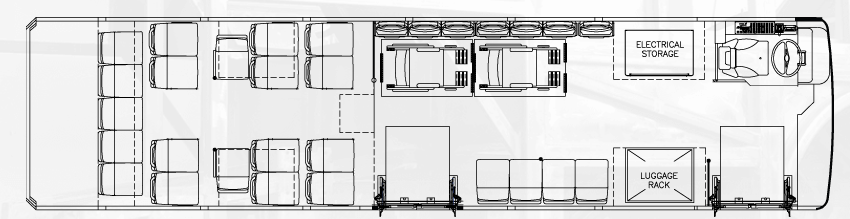
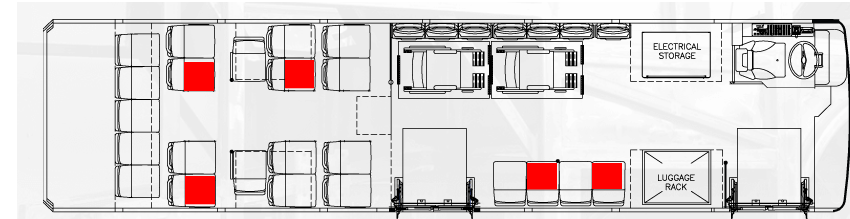
Website content/Style

Changed region(s): [[0.0306, 0.0548, 1.0, 1.0]]

diff --git a/pro_team/Src/templates/product.html b/pro_team/Src/templates/product.html
@@ -1,0 +1,95 @@
+<html>
+	<head>
+		<title>Vision</title>
+		<meta charset="utf-8" />
+		<meta name="viewport" content="width=device-width, initial-scale=1" />
+		<link rel="stylesheet" href="static/main.css" />
+	</head>
+	<body class="subpage">
+
+		<!-- Header -->
+			<header id="header">
+				<div class="inner">
+					<a href="index.html" class="logo"><img src=" ./static/images/logo.png"></a>
+					<nav id="nav">
+						<a href="home">Home</a>
+						<a href="track_my_bus">Track My Bus</a>
+						<a href="product">Product</a>
+                        <a href="vision">Vision</a>
+						<a href="elements">About</a>
+					</nav>
+					<a href="#navPanel" class="navPanelToggle"><span class="fa fa-bars"></span></a>
+				</div>
+			</header>
+
+		<!-- Main -->
+			<section id="main" class="wrapper">
+				<div class="inner">
+					<header class="align-center">
+						<h2>The SoftStat </h2>
+						<p>Providing Transparency in a Post Covid-19 World</p>
+					</header>
+					<body>
+					<p style=" font-size: 22pt; line-height: 2.0;">The SoftStat product is a series of sensors deployed onto a given bus that then allows anonymous tracking of social distancing that is taking place on a bus in real time. The data gathered by the seat sensors are then sent to a web application that updates the bus’s seating chart in real time. Using data visualization we are then able to show any rider or potential rider what the current levels of occupancy on the bus are. This allows users to make decisions on whether or not they are comfortable with the current social distancing practices that are taking place on any bus in real time. This technology promises to bring a level of transparency and information to the public that will help alleviate the worries and concerns of essential workers as cities work to reopen the economies.</p>
+					<p style="text-align: center"><strong>How it Works</strong></p>
+					<div style="text-align: center; text-height: 1.0">
+						<br>
+						<img src="./static/images/strips.jpg" height = "50%" width = "50%">
+						<br>
+						<br>
+						<p style=" font-size: 22pt; line-height: 2.0; text-align: left; margin-left: 3.0cm; margin-right:3cm;">Clayton, one of our engineers purchased a sheet of velostat and copper foil to construct a pressure sensor strip to use as a seat sensor with velostat, copper foil and an arduino uno microcontroller. The final design is 3 1”x11” strips of velostat stacked on top of each other with 2 0.5”x11” copper foil strips on either side of the strips, with wires soldered on either side.
+					</p>
+						<div style="text-align: center; text-height: 1.0">
+						<br>
+						<img src="./static/images/Seat2.jpg" height = "50%" width = "50%">
+						<br>
+							<br>
+							<p style=" font-size: 22pt; line-height: 2.0; text-align: left; margin-left: 3.0cm; margin-right:3cm;">
+								An example of the Velostat implemented into a seat. Velostat is the black strip shown in the photo.
+							</p>
+					</div>
+					</div>
+					<div style="text-align: center; text-height: 1.0">
+						<br>
+						<br>
+						<br>
+						<img src="./static/images/Seat1.jpg" height = "600" width = "600">
+						<br>
+						<br>
+						<p style=" font-size: 22pt; line-height: 2.0; text-align: left; margin-left: 3.0cm; margin-right:3cm;">
+						Before the wire goes in the arduino, he put a diode to make sure the current was traveling in a singular direction into the arduino for consistent readings. The arduino reads the voltages going through the sensor with a voltage threshold to send a message if somebody is using said seat. Once the person sits in the seat,the threshold is broken and the arduino sends a signal to the website application and then reads that signal knowing which seat is now taken, coloring in that seat. Once the seat is empty again, a closing signal is sent to the website to take the color out of the seat to show that the seat is free. These signals can be a simple number going 1 through however many seats when the threshold is broken, and sending a zero when the seat is being unused.
+						</p>
+					</div>
+					<div style="text-align: center; text-height: 1.0">
+						<br>
+						<img src="./static/images/Seat3.jpg" height = "50%" width = "50%">
+						<br>
+						<br>
+						<p style=" font-size: 22pt; line-height: 2.0; text-align: left; margin-left: 3.0cm; margin-right:3cm;">
+						Above is an Ardunio Uno that measure the threshold in order to determine if someone is sitting or not. One Ardunio Uno can measure multiple seats at once.
+						</p>
+					</div>
+
+					<hr class="major" />
+
+					<!-- Content -->
+
+											<ul class="icons">
+												<li><a href="#" class="icon fa-twitter"><span class="label">Twitter</span></a></li>
+												<li><a href="#" class="icon fa-facebook"><span class="label">Facebook</span></a></li>
+												<li><a href="#" class="icon fa-instagram"><span class="label">Instagram</span></a></li>
+												<li><a href="#" class="icon fa-github"><span class="label">Github</span></a></li>
+												<li><a href="#" class="icon fa-dribbble"><span class="label">Dribbble</span></a></li>
+												<li><a href="#" class="icon fa-tumblr"><span class="label">Tumblr</span></a></li>
+											</ul>
+
+										</div>
+
+		<!-- Scripts -->
+			<script src="./static/jquery.min.js"></script>
+			<script src="./static/skel.min.js"></script>
+			<script src="./static/util.js"></script>
+			<script src="./static/main.js"></script>
+
+	</body>
+</html>

diff --git a/pro_team/Src/templates/elements.html b/pro_team/Src/templates/elements.html
@@ -20,8 +20,9 @@
 					<nav id="nav">
 						<a href="home">Home</a>
 						<a href="track_my_bus">Track My Bus</a>
-						<a href="elements">About</a>
+						<a href="product">Product</a>
 						<a href="vision">Vision</a>
+						<a href="elements">About</a>
 					</nav>
 					<a href="#navPanel" class="navPanelToggle"><span class="fa fa-bars"></span></a>
 				</div>
@@ -37,15 +38,39 @@
 					<body>
 						<div style="text-align: center;">
 
-						</body>
 						<img src="./static/images/cool_dude.jpg" height = "50%" width = "50%">
-						<p> Bio Stuff</p>
+						<p><strong> Clayton Scheurer <br>UX/Product Designer-Pro Squad, Sophomore majoring in electrical engineering at Rose-Hulman Institute of Technology
+							<br></strong>Clayton was in charge of product/UX design, designing a seat sensor keeping functionality, durability, and cost in mind to make the best prototype available as a solution. Clayton is looking to focus on either the agricultural or defense industry. He is a part of Rose’s baseball program and in his free time he enjoys hunting and coaching baseball.</p>
 						<img src="./static/images/grace.jpg" height = "50%" width = "50%">
-						<p> Bio Stuff</p>
+					<p><strong>Grace Tam <br> Project Manager, Junior Integrated Business and Engineering and Spanish
+@Valparaiso University</strong> <br>
+					Grace was responsible for scheduling all internal and external meetings. She created a Slack channel and a groupme chat and ran a weekly planning meeting where everyone agreed on a set of tasks for the week. Grace also put this document together with help from the rest of the team.
+					</p>
 						<img src="./static/images/ryan-danehy.jpg" height = "50%" width = "50%" >
-						<p> Bio Stuff</p>
-						</center>
+					<p> <strong> Ryan Danehy <br>Software Engineer,, senior in Intelligent Systems Engineering with minor in mathematics @ Indiana University</strong><br>
+					Ryan was in charge of designing, developing, and deploying the web application in which the SoftStat sensor would be integrated into. He also was responsible for the initial research in the product viability evaluation, as well as investigating the future application of such a product. Ryan’s area of specialization is bioengineering specifically computational biology, with increased interest in High Performance Computing, and Machine Learning. He is an avid skier, hiker, and biker who was born and raised in Louisville, Kentucky. He is currently scheduled to graduate with a bachelor degree in 2021 and a master’s degree in 2022.
+					</p>
+						<img src="./static/images/elliot.jpg" height = "10%" width = "30%" >
+						<p> <strong>Elliot Schendel <br>Director of Operations - Go Team, Senior majoring in Management of Information Systems at Butler University<br>
+</strong> Elliot was responsible for: facilitating the completion of Go-team materials, creating material for project development, and conducting market research. He's passionate about helping make technology more accessible to small business owners and helping them to work smarter to achieve their organizational goals. In his free time, Elliot loves to drive and ride his bike in natural parks.
+</p>
+						<img src="./static/images/cassie.jpg" height = "10%" width = "30%" >
+						<p>
+							<Strong> Cassie Utley<br> Customer Outreach Manager, Senior Class of 2021, Mechanical Engineer @ Rose-Hulman Institute of Technology</Strong><br>
+
+Cassie contributed by focusing on the importance of the customers' need to travel safely, especially due to COVID-19, and how to incorporate change with the team in the development of Take a Seat. Post-Graduation, she plans to go into the automotive industry and eventually develop her own business; however, she's still thinking about going back to school to get her Masters or go to Chiropractic school. Outside of school and academics, Varsity Athlete, Multi-Organizations Member, Tutor and Volunteer. But if you’re looking for her, you can find her in the gym.</p>
+
+						<img src="./static/images/david.png" height = "25%" width = "25%" >
+						<p><strong>David Mykut. <br>Systems Designer, System Analyst- Pro Squad, Majoring in Computer Information and Technologies with a minor in History @ Purdue</strong>
+						<br>
+							David helped to model and visualize the design of the project in the early stages, then helping between other areas and teammates as needed. He is a senior studying computer informations and technologies with a minor in history at
+Purdue University. From a small town , Walton, in Indiana after living in north Central Pennsylvania for
+seven years. Has a background in organizing teams, taking charge when needed, and managing and
+connecting with communities. Enjoys stories, story telling, reading, playing games, and brewing tea.
+						</p>
 						</div>
+
+
 					<hr class="major" />
 
 					<!-- Content -->

diff --git a/pro_team/Src/templates/vision.html b/pro_team/Src/templates/vision.html
@@ -14,8 +14,9 @@
 					<nav id="nav">
 						<a href="home">Home</a>
 						<a href="track_my_bus">Track My Bus</a>
-						<a href="elements">About</a>
+						<a href="product">Product</a>
                         <a href="vision">Vision</a>
+						<a href="elements">About</a>
 					</nav>
 					<a href="#navPanel" class="navPanelToggle"><span class="fa fa-bars"></span></a>
 				</div>
@@ -30,10 +31,13 @@
 					</header>
 					<body>
 						<div style="text-align: center;">
-							<img src="./static/images/quote.png">
+							<p style=" font-size: 22pt; line-height: 2.0; text-align: left; margin-left: 3.0cm; margin-right:3cm;"> Take a seat was founded in 2020 with the objective of providing rider a piece of mind when engaged in transportation system in indy go. We envision our initial product of take a seat being a launch point into variety of other customer relation improving software and hardware. Take a seat marketing offer is designed to improve the public health of Hoosier engaging in transportation service in Indy such as Indygo.</>
 						</div>
+						<div style="text-align: center;">
+							<p style=" font-size: 22pt; line-height: 2.0; text-align: left; margin-left: 3.0cm; margin-right:3cm;"> Cities are currently designed and run in a way that incentives individual mobility. This has resulted in systems that equate cars as equal to buses and have resulted in a variety of challenges. In the current climate of increasing populations, and climate change we believe it is becoming not only necessary but vital that cities redesign their transportation arrangements into a more intelligent, green, and efficient model. We hope that our current product will act as a stepping stool to allowing us to gain a voice, trust,and customer base so that we can face these new transportation challenges.
+</p>
 						<div>
-							<img src="./static/images/smart_trans.png" width=" 150%" height="150%">
+							<img src="./static/images/smart_trans.png" width=" 100%" height="100%">
 						</div>
 					<hr class="major" />
 

diff --git a/pro_team/Src/templates/index.html b/pro_team/Src/templates/index.html
@@ -20,8 +20,9 @@
 					<nav id="nav">
 						<a href="home">Home</a>
 						<a href="track_my_bus">Track My Bus</a>
-						<a href="elements">About</a>
+						<a href="product">Product</a>
 						<a href="vision">Vision</a>
+						<a href="elements">About</a>
 					</nav>
 					<a href="#navPanel" class="navPanelToggle"><span class="fa fa-bars"></span></a>
 				</div>
@@ -31,34 +32,15 @@
 			<section id="banner">
 				<div class="inner">
 					<header>
-						<h1>Welcome to Take A Seat</h1>
+						<h1><p style="color:#6CC091;font-size:200%;margin-bottom: 0">Take A Seat</p><p style="line-height: 1.2; color: #FFFFFF;"><br> is a solution to the post COVID-19 world which will revolutionize the relationship between
+							public transportation and the essential workers who use it daily. </p></h1>
 					</header>
-
-					<div class="flex ">
-
-						<div>
-							<span class="icon fa-car"></span>
-							<h3>Transparency</h3>
-							<p></p>
-						</div>
-
-						<div>
-							<span class="icon fa-camera"></span>
-							<h3>Comfort</h3>
-							<p></p>
-						</div>
-
-						<div>
-							<span class="icon fa-bug"></span>
-							<h3>Optimization</h3>
-							<p></p>
-						</div>
-
-					</div>
-
 					<footer>
-						<a href="#" class="button">Get Started</a>
+						<a href="product" class="button">Learn More about Our Product</a>
 					</footer>
+					<br>
+					<br>
+					<iframe width="1280" height="720" src="https://www.youtube.com/embed/udJX8ERecwQ" frameborder="0" allow="accelerometer; autoplay; encrypted-media; gyroscope; picture-in-picture" allowfullscreen></iframe>
 				</div>
 			</section>
 

diff --git a/pro_team/Src/static/main.css b/pro_team/Src/static/main.css
@@ -8,6 +8,7 @@
 	Released for free under the Creative Commons Attribution 3.0 license (templated.co/license)
 */
 
+
 /* Reset */
 
 	html, body, div, span, applet, object, iframe, h1, h2, h3, h4, h5, h6, p, blockquote, pre, a, abbr, acronym, address, big, cite, code, del, dfn, em, img, ins, kbd, q, s, samp, small, strike, strong, sub, sup, tt, var, b, u, i, center, dl, dt, dd, ol, ul, li, fieldset, form, label, legend, table, caption, tbody, tfoot, thead, tr, th, td, article, aside, canvas, details, embed, figure, figcaption, footer, header, hgroup, menu, nav, output, ruby, section, summary, time, mark, audio, video {
@@ -1586,7 +1587,7 @@
 
 	body, input, select, textarea {
 		color: #9a9a9a;
-		font-family: "Source Sans Pro", Arial, Helvetica, sans-serif;
+		font-family: "Source Sans Pro", Andale Mono, sans-serif;
 		font-size: 14pt;
 		font-weight: 400;
 		line-height: 1.65;

diff --git a/pro_team/Src/templates/generic.html b/pro_team/Src/templates/generic.html
@@ -30,8 +30,9 @@
 					<nav id="nav">
 						<a href="home">Home</a>
 						<a href="track_my_bus">Track My Bus</a>
-						<a href="elements">About</a>
+						<a href="product">Product</a>
 						<a href="vision">Vision</a>
+						<a href="elements">About</a>
 					</nav>
 					<a href="#navPanel" class="navPanelToggle"><span class="fa fa-bars"></span></a>
 				</div>
@@ -42,12 +43,10 @@
 				<div class="inner">
 					<header class="align-center">
 						<h2>Track My Bus</h2>
-						<p>Input info</p>
 					</header>
 					<div class="image round left">
 						<!-- <img src="./static/images/pic01.jpg" alt="Pic 01" /> -->
 					</div>
-					<p>Stuff about how the user interface works. For example How the seating chart data will be displayed to the everyday user</p>
 
 					<div class="image round right">
 						<!-- <img src="./static/images/pic02.jpg" alt="Pic 02" /> -->

diff --git a/pro_team/Src/static/map.js b/pro_team/Src/static/map.js
@@ -48,7 +48,7 @@ var layer = new ol.layer.Vector({
   map.on('singleclick', function (event) {
      if (map.hasFeatureAtPixel(event.pixel) === true) {
          var coordinate = event.coordinate;
-         content.innerHTML ='Bus ID: 121<br/>Occupancy: 4<br/> <img src="./static/images/bus_schematic.png " height=" 300" width=" 900">'
+         content.innerHTML ='Bus ID: 121<br/>Occupancy: 5<br/>Route: New York Avenue - Jordan St <img src="./static/images/bus_schematic.png " height=" 300" width=" 900">'
          overlay.setPosition(coordinate);
      } else {
          overlay.setPosition(undefined);

diff --git a/pro_team/Src/templates/map.html b/pro_team/Src/templates/map.html
@@ -12,7 +12,7 @@
       }
     </style>
     <script src="https://cdn.jsdelivr.net/gh/openlayers/openlayers.github.io@master/en/v6.3.1/build/ol.js"></script>
-    <title>OpenLayers example</title>
+    <title>Map</title>
   </head>
   <body>
     <h2>My Map</h2>

diff --git a/pro_team/Src/app.py b/pro_team/Src/app.py
@@ -20,6 +20,11 @@ def generic():
     return render_template('generic.html')
 
 
+@app.route('/product')
+def product():
+    return render_template('product.html')
+
+
 @app.route('/elements')
 def elements():
     return render_template('elements.html')
